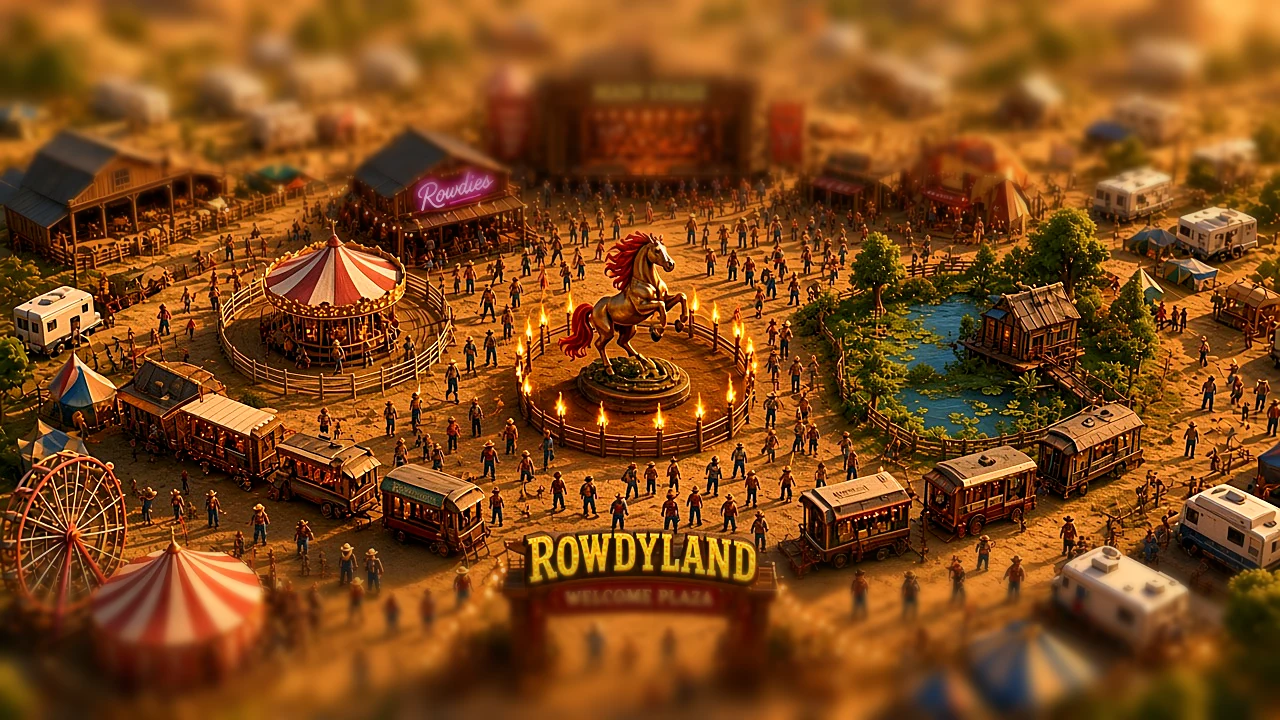
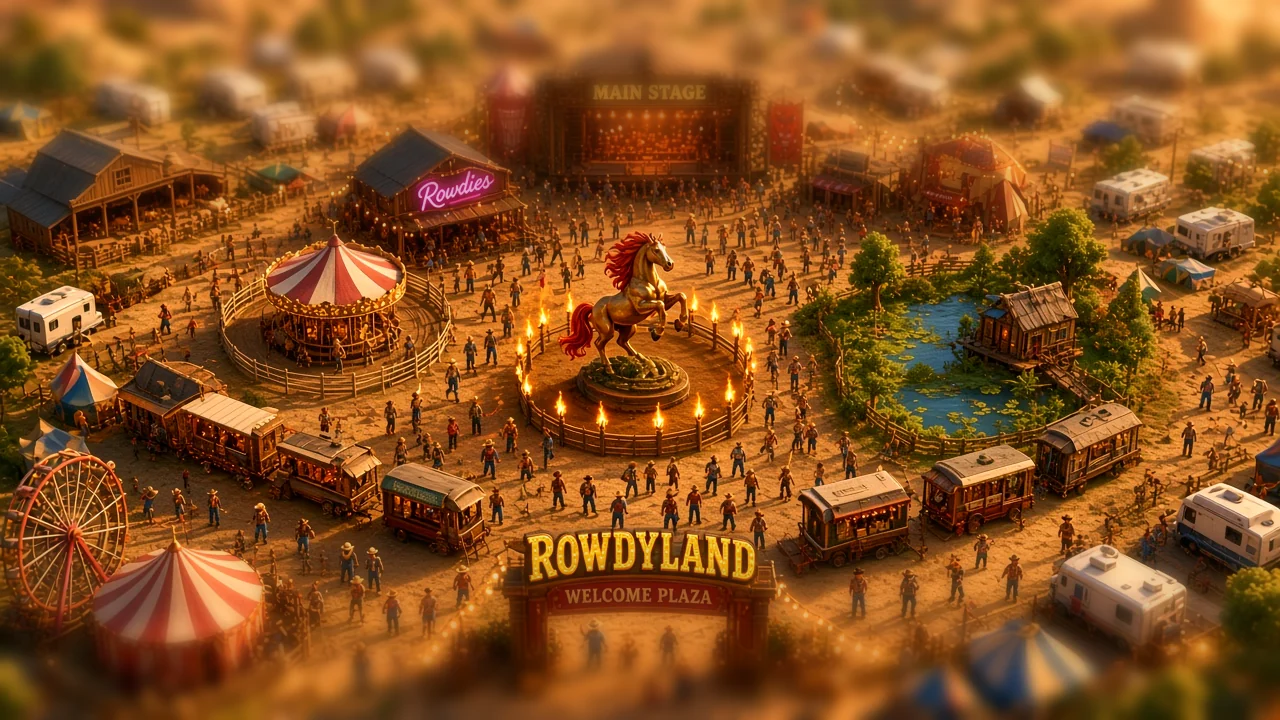
Vista: restore original art, merch sign under title

diff --git a/index.html b/index.html
@@ -31,7 +31,7 @@
     <link rel="preload" href="assets/barn-wood.webp" as="image" type="image/webp">
     <link rel="preload" href="fonts/Fraunces-Italic.woff2" as="font" type="font/woff2" crossorigin>
     <link rel="preload" href="fonts/Fraunces.woff2" as="font" type="font/woff2" crossorigin>
-    <link rel="stylesheet" href="styles.css?v=polish1">
+    <link rel="stylesheet" href="styles.css?v=restore1">
     <link rel="stylesheet" href="intro.css?v=intro2">
     <script src="intro.js?v=intro2"></script>
   </head>
@@ -88,9 +88,9 @@
     </section>
 
     <div class="vista" id="vista" role="dialog" aria-modal="true" aria-labelledby="vista-title" hidden>
-      <picture><source srcset="assets/festival-tiltshift.webp?v=p1" type="image/webp"><img class="vista-art" src="assets/festival-tiltshift.jpg?v=p1" width="1280" height="720" alt="Bird's eye view of the Rowdyland festival grounds at golden hour, with the Main Stage, the gold Rowdy statue in Fire Horse Plaza, Frogville, Pony Palace, the Rowdies night club, Chuckwagon Row and the Welcome Plaza sign." decoding="async"></picture>
-      <div class="vista-top"><h2 id="vista-title">Welcome to Rowdyland</h2></div>
-      <div class="vista-btns"><button type="button" class="vista-enter" id="vista-enter">Enter the map</button><a class="merch-sign" href="https://shop.rowdyhop.com" target="_blank" rel="noopener"><svg class="merch-hat" viewBox="0 0 48 24" aria-hidden="true"><path d="M14 15 C14 6 17 3 20 5 C22 6 26 6 28 5 C31 3 34 6 34 15 Z" fill="#e2b445" stroke="#3c2216" stroke-width="1.6" stroke-linejoin="round"/><path d="M15 13 Q24 15.5 33 13" fill="none" stroke="#7a1f12" stroke-width="2.4"/><path d="M2 15 C8 22 40 22 46 15 C40 18 8 18 2 15 Z" fill="#e2b445" stroke="#3c2216" stroke-width="1.6" stroke-linejoin="round"/></svg><span>Merch Shop</span></a><a class="vista-tix" href="mailto:howdy@rowdyhop.com">Get your tickets now!</a></div>
+      <picture><source srcset="assets/festival-tiltshift.webp?v=r1" type="image/webp"><img class="vista-art" src="assets/festival-tiltshift.jpg?v=r1" width="1280" height="720" alt="Bird's eye view of the Rowdyland festival grounds at golden hour, with the Main Stage, the gold Rowdy statue in Fire Horse Plaza, Frogville, Pony Palace, the Rowdies night club, Chuckwagon Row and the Welcome Plaza sign." decoding="async"></picture>
+      <div class="vista-top"><h2 id="vista-title">Welcome to Rowdyland</h2><a class="merch-sign" href="https://shop.rowdyhop.com" target="_blank" rel="noopener"><svg class="merch-hat" viewBox="0 0 48 24" aria-hidden="true"><path d="M14 15 C14 6 17 3 20 5 C22 6 26 6 28 5 C31 3 34 6 34 15 Z" fill="#e2b445" stroke="#3c2216" stroke-width="1.6" stroke-linejoin="round"/><path d="M15 13 Q24 15.5 33 13" fill="none" stroke="#7a1f12" stroke-width="2.4"/><path d="M2 15 C8 22 40 22 46 15 C40 18 8 18 2 15 Z" fill="#e2b445" stroke="#3c2216" stroke-width="1.6" stroke-linejoin="round"/></svg><span>Merch Shop</span></a></div>
+      <div class="vista-btns"><button type="button" class="vista-enter" id="vista-enter">Enter the map</button><a class="vista-tix" href="mailto:howdy@rowdyhop.com">Get your tickets now!</a></div>
     </div>
 
     <div class="map-overlay" id="map-dialog" role="dialog" aria-modal="true" aria-labelledby="map-dialog-title" hidden>

diff --git a/styles.css b/styles.css
@@ -1044,11 +1044,8 @@ body.map-open {
 @media (max-width: 760px) { .vista-art { object-position: 50% 50%; } }
 @media (prefers-reduced-motion: reduce) { .vista, .vista-art { transition: none; animation: none; } }
 
-/* vista merch sign + keep buttons off the arch */
+/* vista merch sign */
 .merch-sign { display: inline-flex; align-items: center; gap: 0.55rem; padding: 0.45rem 1.1rem 0.45rem 0.8rem; border: 2px solid #3c2216; border-radius: 6px; background: linear-gradient(180deg, #8a5a34 0%, #6b4226 100%); color: #ffe08a; font-family: Fraunces, Georgia, serif; font-weight: 800; font-size: 0.95rem; letter-spacing: 0.06em; text-transform: uppercase; text-decoration: none; box-shadow: inset 0 1px 0 rgba(255, 224, 160, 0.35), 0 3px 0 #3c2216, 0 6px 14px rgba(0, 0, 0, 0.35); transform: rotate(-1.5deg); transition: transform 0.2s, background 0.2s; }
 .merch-sign:hover, .merch-sign:focus-visible { outline: none; transform: rotate(0deg) scale(1.04); background: linear-gradient(180deg, #9c6a3e 0%, #7a4c2c 100%); color: #fff; }
 .merch-hat { width: 36px; height: 18px; flex: none; }
-.vista-btns { bottom: clamp(0.8rem, 3vh, 1.6rem); gap: 0.5rem; }
-.vista picture { top: -12%; bottom: auto; height: 112%; }
-.vista-art { height: 100%; }
-@media (max-width: 760px) { .vista picture { top: -22%; height: 122%; } .vista-enter { padding: 0.6rem 1.5rem; font-size: 1.05rem; } }
+.vista-top .merch-sign { margin-top: 0.7rem; }
